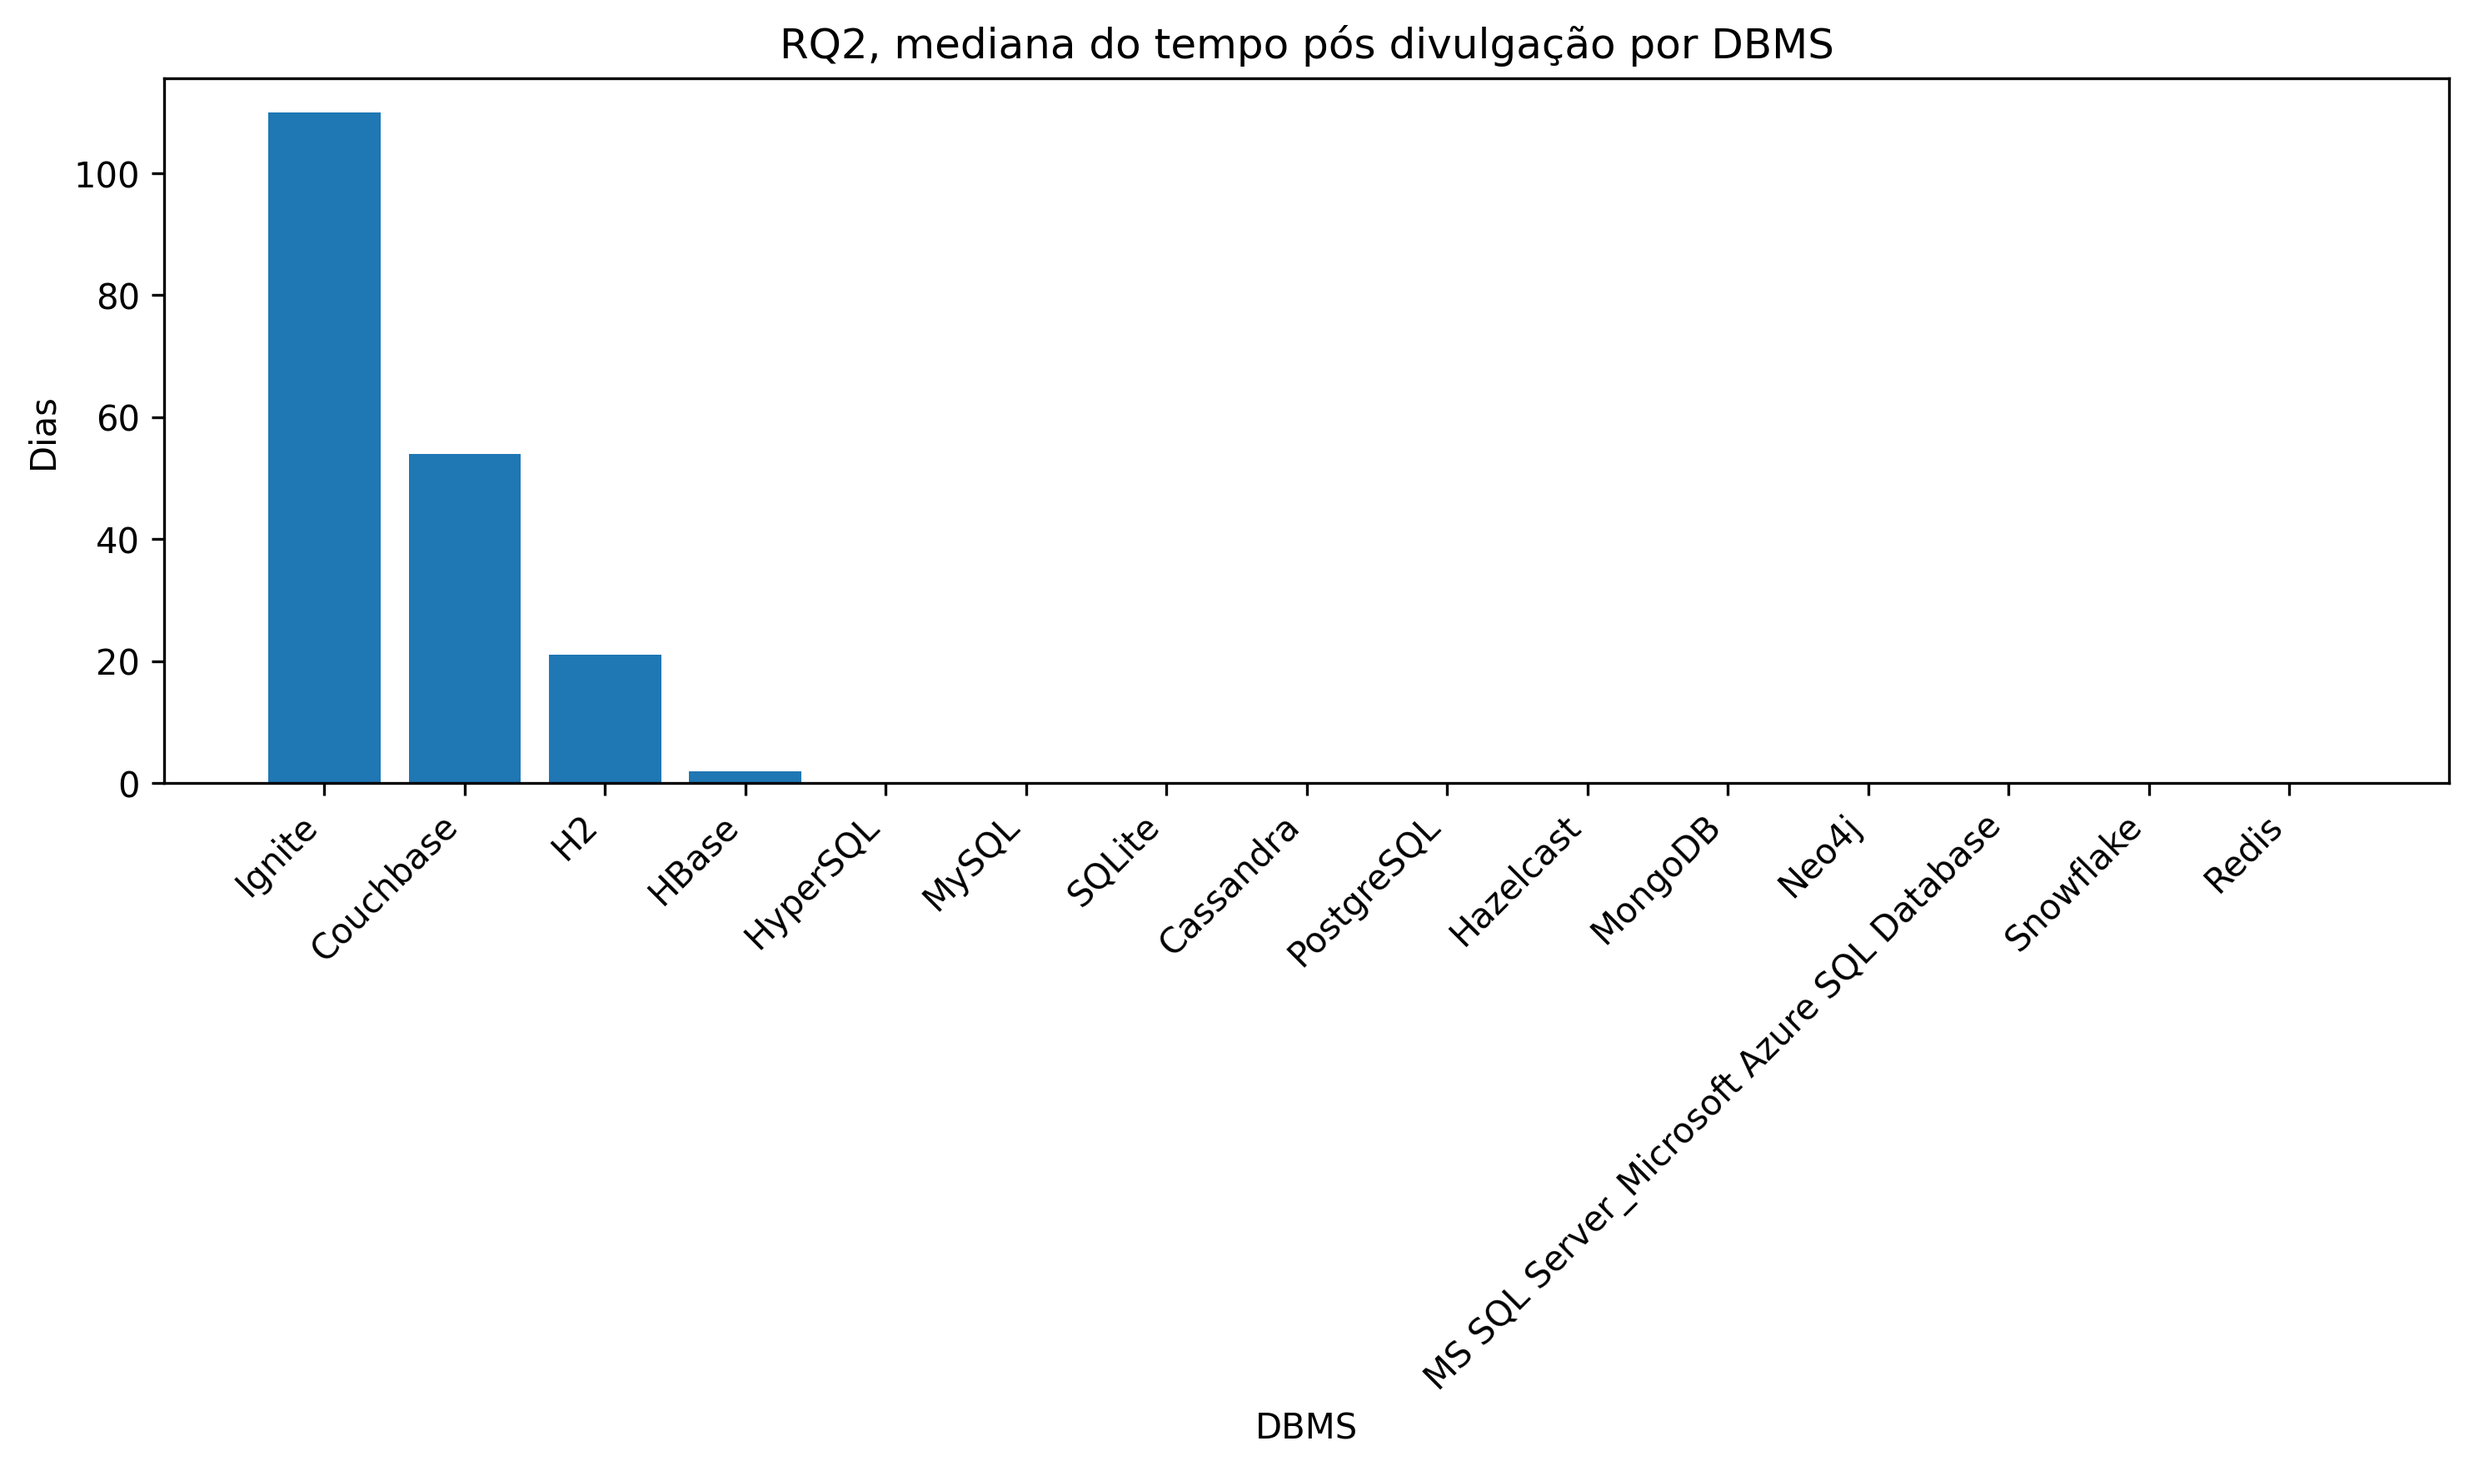
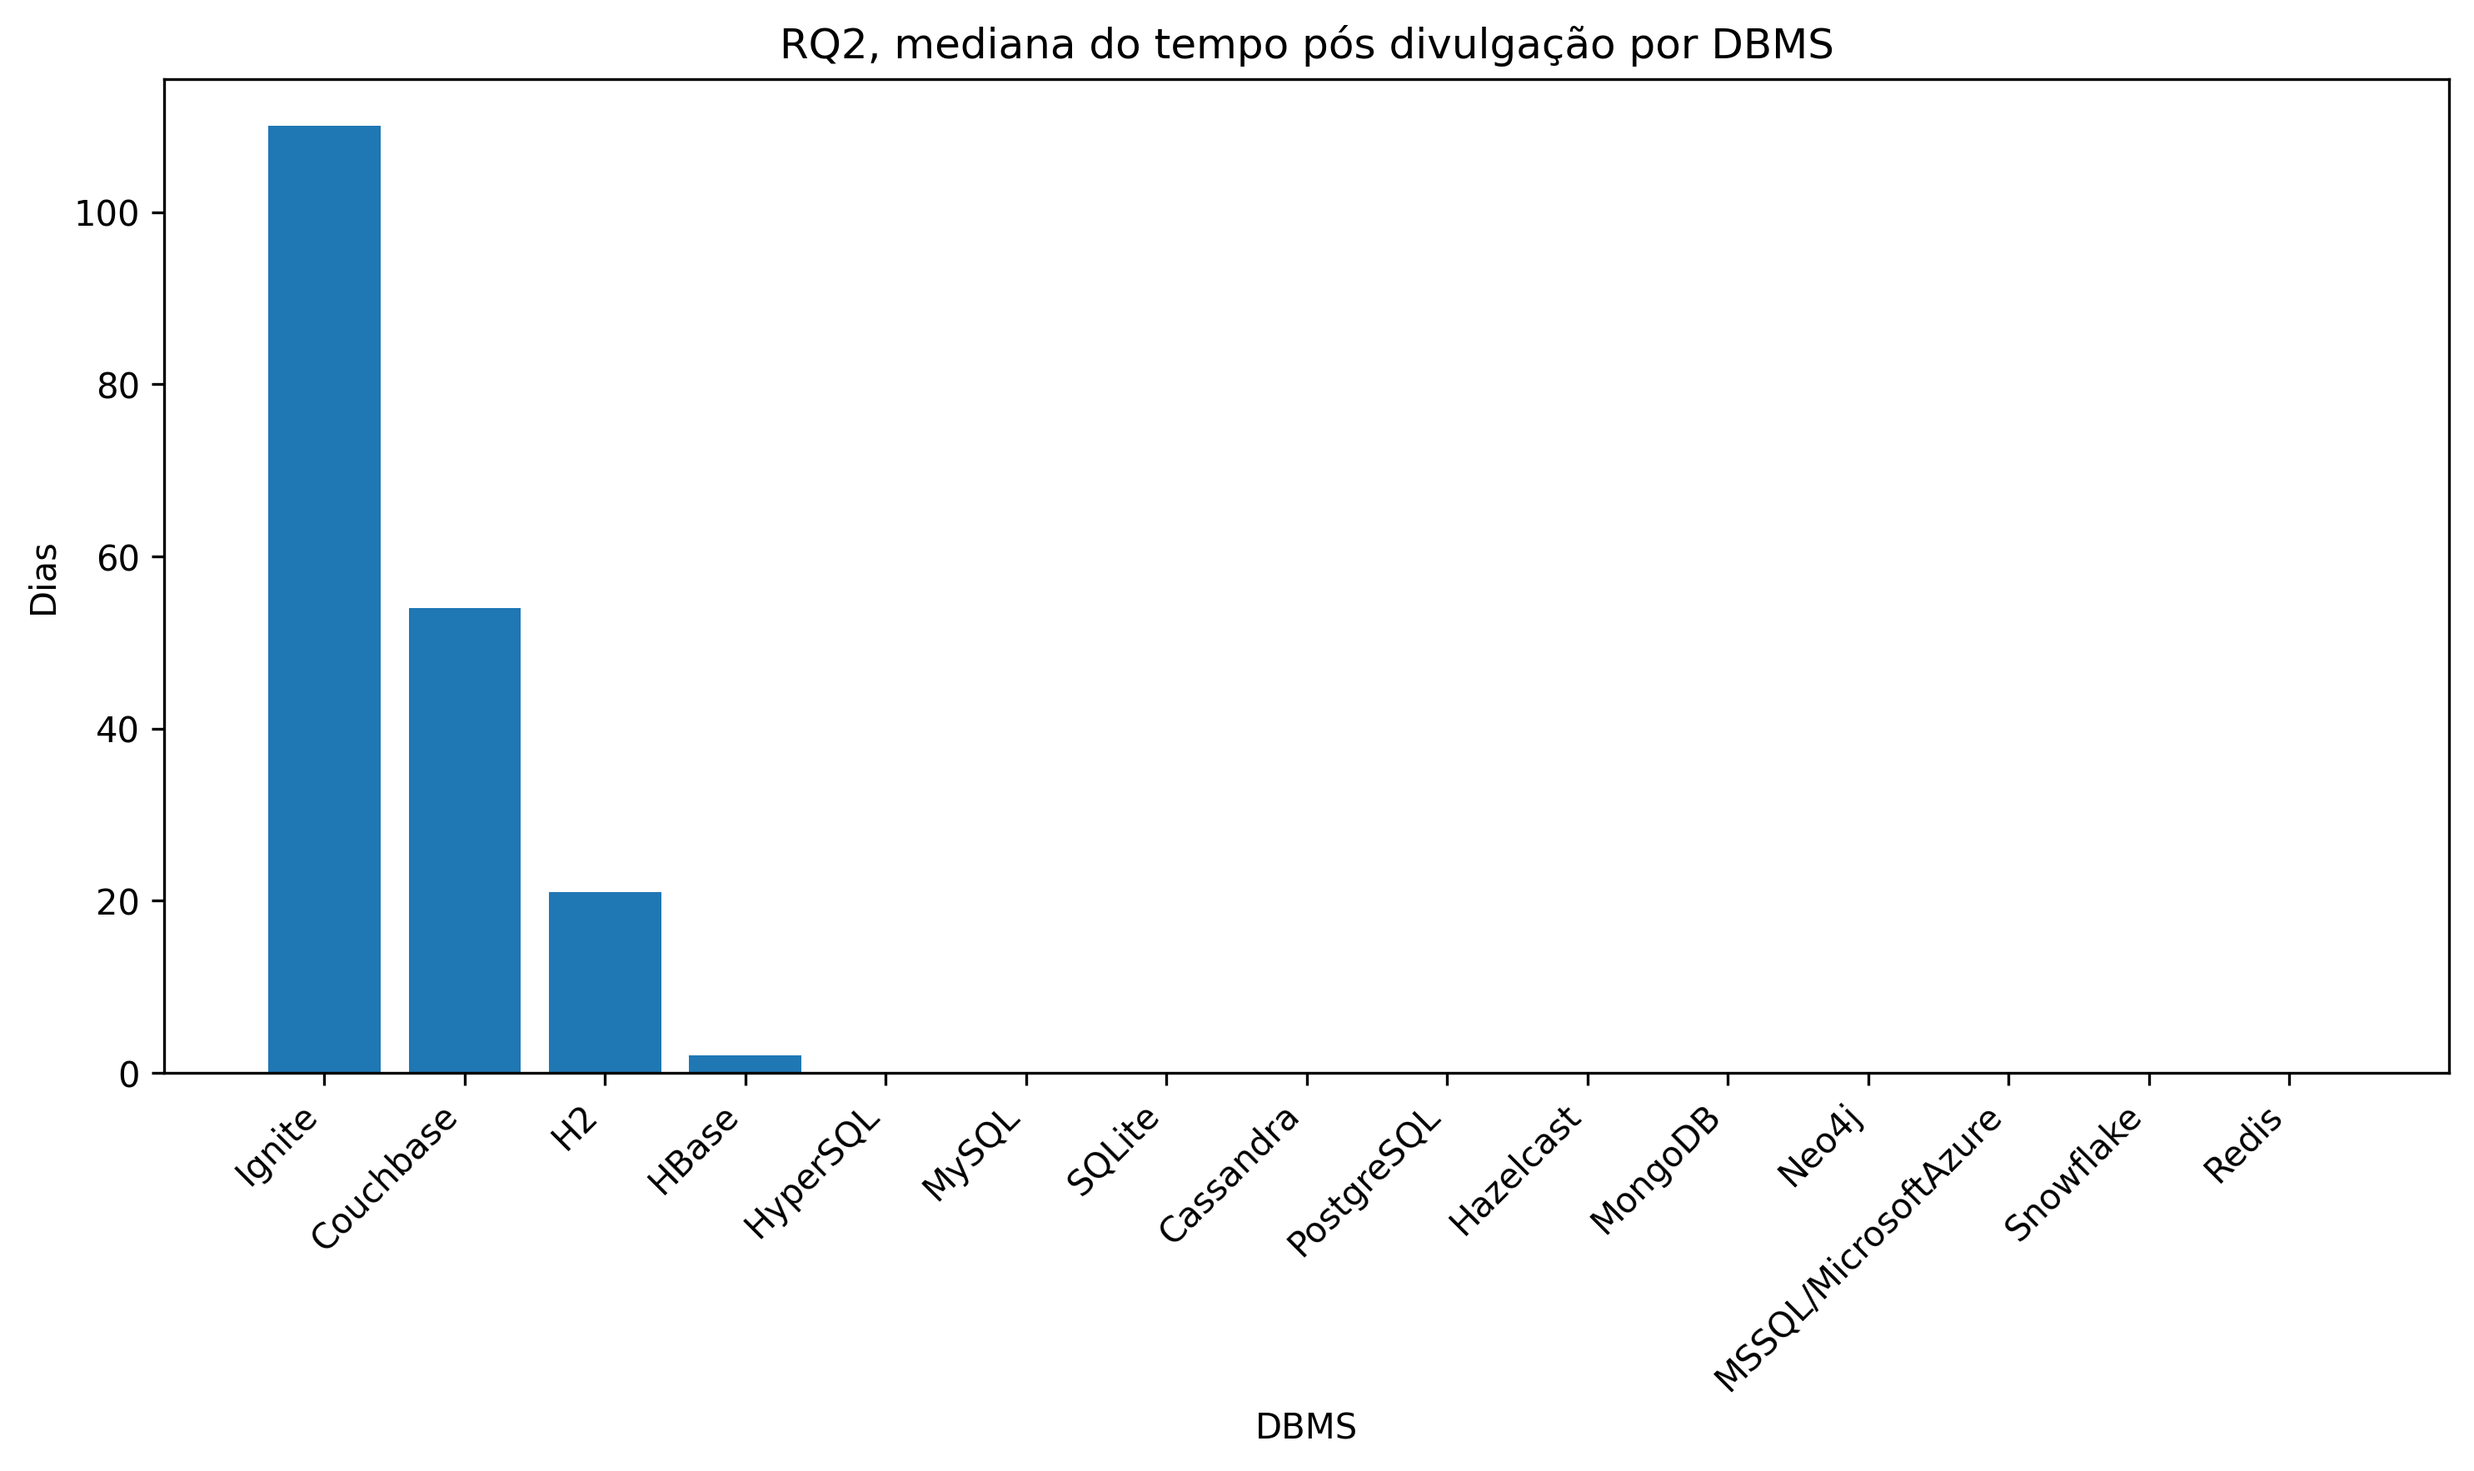
Respostas RQ2

diff --git a/src/gerar_graficos_rq2.py b/src/gerar_graficos_rq2.py
@@ -6,6 +6,7 @@ from pathlib import Path
 import matplotlib.pyplot as plt
 import numpy as np
 import pandas as pd
+from gerar_graficos_rq1 import normalize_db_display_names
 
 logging.basicConfig(
     level=logging.INFO,
@@ -71,35 +72,6 @@ def plot_boxplot_post_disclosure(rq2_exposicoes: pd.DataFrame, output_dir: Path)
     save_plot(fig, output_dir, "rq2_boxplot_pos_divulgacao_por_dbms.png")
 
 
-def plot_boxplot_total_exposure(rq2_exposicoes: pd.DataFrame, output_dir: Path) -> None:
-    if rq2_exposicoes.empty:
-        return
-
-    rq2_exposicoes = prepare_numeric(
-        rq2_exposicoes,
-        ["total_exposure_days"]
-    )
-
-    grouped = []
-    labels = []
-    for db, sub in rq2_exposicoes.groupby("db", dropna=False):
-        vals = sub["total_exposure_days"].dropna()
-        if len(vals) > 0:
-            grouped.append(vals.values)
-            labels.append(db)
-
-    if not grouped:
-        return
-
-    fig = plt.figure(figsize=(12, 6))
-    plt.boxplot(grouped, labels=labels)
-    plt.title("RQ2, distribuição do tempo total de exposição por DBMS")
-    plt.xlabel("DBMS")
-    plt.ylabel("Dias")
-    plt.xticks(rotation=45, ha="right")
-    save_plot(fig, output_dir, "rq2_boxplot_exposicao_total_por_dbms.png")
-
-
 def plot_cdf_post_disclosure(rq2_exposicoes: pd.DataFrame, output_dir: Path) -> None:
     if rq2_exposicoes.empty:
         return
@@ -125,21 +97,58 @@ def plot_cdf_total_exposure(rq2_exposicoes: pd.DataFrame, output_dir: Path) -> N
     if rq2_exposicoes.empty:
         return
 
-    rq2_exposicoes = prepare_numeric(rq2_exposicoes, ["total_exposure_days"])
-    values = rq2_exposicoes["total_exposure_days"].dropna()
-    values = values[values >= 0].sort_values()
+    rq2_exposicoes = prepare_numeric(
+        rq2_exposicoes,
+        ["total_exposure_days"]
+    )
 
-    if values.empty:
+    df = rq2_exposicoes.dropna(subset=["db", "total_exposure_days"]).copy()
+    df = df[df["total_exposure_days"] >= 0]
+
+    if df.empty:
         return
 
-    y = np.arange(1, len(values) + 1) / len(values)
+    # Ordena os BDs pela mediana, maior para menor
+    db_order = (
+        df.groupby("db")["total_exposure_days"]
+        .median()
+        .sort_values(ascending=False)
+        .index
+        .tolist()
+    )
 
-    fig = plt.figure(figsize=(10, 6))
-    plt.plot(values.values, y)
-    plt.title("RQ2, CDF do tempo total de exposição")
-    plt.xlabel("Dias")
-    plt.ylabel("Proporção acumulada")
-    save_plot(fig, output_dir, "rq2_cdf_exposicao_total.png")
+    fig = plt.figure(figsize=(12, 7))
+
+    for db in db_order:
+        values = (
+            df.loc[df["db"] == db, "total_exposure_days"]
+            .dropna()
+            .sort_values()
+        )
+
+        if values.empty:
+            continue
+
+        y = np.arange(1, len(values) + 1) / len(values)
+
+        plt.plot(
+            values.values,
+            y,
+            linewidth=1.8,
+            label=db
+        )
+
+    plt.title("RQ2, CDF of total exposure time by DBMS")
+    plt.xlabel("Total exposure time, days")
+    plt.ylabel("Cumulative proportion")
+    plt.legend(
+        title="DBMS",
+        bbox_to_anchor=(1.05, 1),
+        loc="upper left",
+        fontsize=8
+    )
+
+    save_plot(fig, output_dir, "rq2_cdf_exposicao_total_por_dbms.png")
 
 
 def plot_summary_post_disclosure(rq2_resumo: pd.DataFrame, output_dir: Path) -> None:
@@ -214,6 +223,129 @@ def plot_pre_vs_post_summary(rq2_resumo: pd.DataFrame, output_dir: Path) -> None
     save_plot(fig, output_dir, "rq2_mediana_pre_vs_pos_por_dbms.png")
 
 
+def plot_boxplot_total_exposure(rq2_exposicoes: pd.DataFrame, output_dir: Path) -> None:
+    if rq2_exposicoes.empty:
+        return
+
+    rq2_exposicoes = prepare_numeric(
+        rq2_exposicoes,
+        ["total_exposure_days"]
+    )
+
+    df = rq2_exposicoes.dropna(subset=["db", "total_exposure_days"]).copy()
+    df = df[df["total_exposure_days"] >= 0]
+
+    if df.empty:
+        return
+
+    # Ordena pela amplitude da caixa, maior distribuição primeiro
+    order_stats = (
+        df.groupby("db")["total_exposure_days"]
+        .agg(
+            q1=lambda x: x.quantile(0.25),
+            q3=lambda x: x.quantile(0.75),
+            median="median",
+            count="count"
+        )
+    )
+
+    order_stats["iqr"] = order_stats["q3"] - order_stats["q1"]
+
+    order = (
+        order_stats
+        .sort_values(
+            ["iqr", "median", "count"],
+            ascending=[False, False, False]
+        )
+        .index
+        .tolist()
+    )
+
+    grouped = []
+    labels = []
+
+    for db in order:
+        vals = df.loc[df["db"] == db, "total_exposure_days"].values
+        if len(vals) > 0:
+            grouped.append(vals)
+            labels.append(db)
+
+    if not grouped:
+        return
+
+    fig = plt.figure(figsize=(14, 7))
+
+    plt.boxplot(
+        grouped,
+        labels=labels,
+        showfliers=False,
+        patch_artist=True,
+        boxprops=dict(facecolor="lightgray", color="black"),
+        medianprops=dict(color="black", linewidth=1.5),
+        whiskerprops=dict(color="black"),
+        capprops=dict(color="black")
+    )
+
+    plt.title("RQ2, distribution of total exposure time by DBMS")
+    plt.xlabel("DBMS")
+    plt.ylabel("Days")
+    plt.xticks(rotation=45, ha="right")
+
+    save_plot(fig, output_dir, "rq2_boxplot_exposicao_total_por_dbms.png")
+
+
+def plot_cdf_three_exposure_moments(rq2_exposicoes: pd.DataFrame, output_dir: Path) -> None:
+    if rq2_exposicoes.empty:
+        return
+
+    required_cols = [
+        "total_exposure_days",
+        "pre_disclosure_days",
+        "post_disclosure_days"
+    ]
+
+    missing = [col for col in required_cols if col not in rq2_exposicoes.columns]
+    if missing:
+        raise ValueError(f"rq2_exposicoes.csv deve conter as colunas: {missing}")
+
+    df = prepare_numeric(
+        rq2_exposicoes,
+        required_cols
+    )
+
+    series_config = [
+        ("total_exposure_days", "Total exposure time"),
+        ("pre_disclosure_days", "Exposure before public disclosure"),
+        ("post_disclosure_days", "Exposure after public disclosure")
+    ]
+
+    fig = plt.figure(figsize=(10, 6))
+
+    for col, label in series_config:
+        values = df[col].dropna()
+        values = values[values > 0].sort_values()
+
+        if values.empty:
+            continue
+
+        y = np.arange(1, len(values) + 1) / len(values)
+
+        plt.plot(
+            values.values,
+            y,
+            linewidth=2,
+            label=label
+        )
+
+    plt.title("RQ2, CDF of exposure time across three moments")
+    plt.xlabel("Exposure time, days")
+    plt.ylabel("Cumulative proportion")
+    plt.legend()
+    plt.grid(True, alpha=0.3)
+
+    save_plot(fig, output_dir, "rq2_cdf_tres_momentos_exposicao.png")
+
+
 def main() -> None:
     parser = argparse.ArgumentParser(
         description="Gera gráficos para a RQ2 a partir dos CSVs em rqs_data."
@@ -235,11 +367,13 @@ def main() -> None:
     ensure_output_dir(output_dir)
 
     rq2_exposicoes = read_csv_required(input_dir / "rq2_exposicoes.csv")
+    rq2_exposicoes = normalize_db_display_names(rq2_exposicoes)
     rq2_resumo = read_csv_required(input_dir / "rq2_resumo.csv")
+    rq2_resumo = normalize_db_display_names(rq2_resumo)
 
     plot_boxplot_post_disclosure(rq2_exposicoes, output_dir)
     plot_boxplot_total_exposure(rq2_exposicoes, output_dir)
-    plot_cdf_post_disclosure(rq2_exposicoes, output_dir)
+    plot_cdf_three_exposure_moments(rq2_exposicoes, output_dir)
     plot_cdf_total_exposure(rq2_exposicoes, output_dir)
     plot_summary_post_disclosure(rq2_resumo, output_dir)
     plot_summary_total_exposure(rq2_resumo, output_dir)
